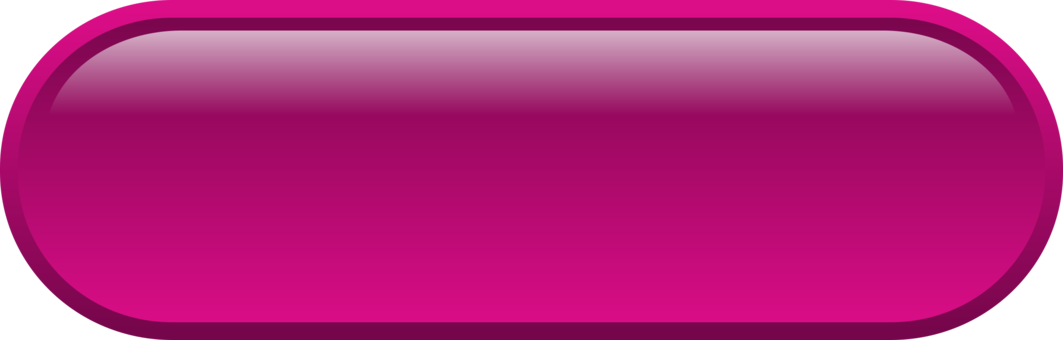
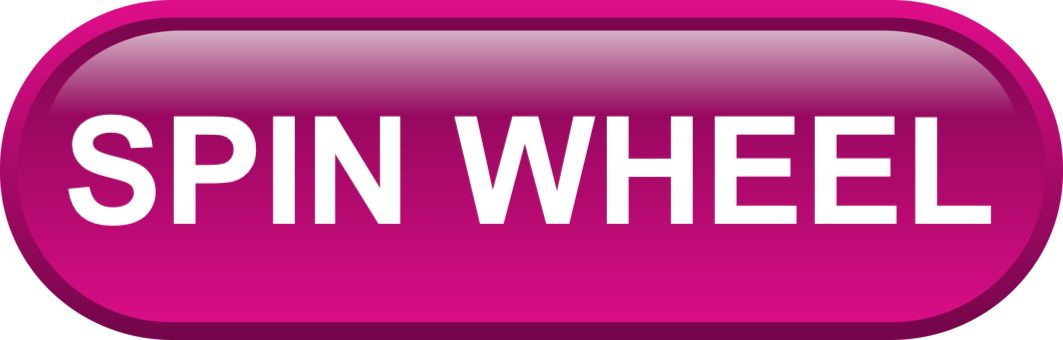
added text to the button spinwheel

Changed region(s): [[0.0621, 0.3235, 0.9313, 0.6765]]

diff --git a/scriptwheel.js b/scriptwheel.js
@@ -113,7 +113,7 @@
     });
 
     startButton.addEventListener("pointerup", (event) => {
-        console.log(event.type);
+        //console.log(event.type);
             // We need to disable the button while the wheel is spinning
         startButton.style.pointerEvents = "none";
             // Calculate a new rotation which depends on how long one presses the button plus some randomness
@@ -178,7 +178,7 @@
                 noLettersFound(vowelInput);                              
             }
             let vowelDropDown = document.querySelector('#vowelValue').childElementCount;
-            console.log(vowelDropDown);
+            //console.log(vowelDropDown);
             if (vowelDropDown < 1) {
                 vowelDiv.style.visibility = "hidden";
             }
@@ -241,8 +241,8 @@
         randomNumber = Math.floor(Math.random()*originalWord.length);
         wordWOF = new Word(originalWord[randomNumber].movie, originalWord[randomNumber].category);
         originalWord.splice(randomNumber, 1);
-        console.log(wordWOF.letters);
         wordWOF.arrangeLetters();
+        wordWOF.setCategory();
         anotherRoundDiv.style.display = "none";
         startButton.style.display = "block";
         userInput.style.display = "none";

diff --git a/script.js b/script.js
@@ -54,7 +54,7 @@ class Word {
         //const noBlocksPerRow = 13;
         
         for (let i=1; i<=noRows; i++) {
-            console.log(displayObject["row"+i]);
+            
             let joinedWords = displayObject["row"+i].join(" ");
             const row = document.querySelector("#row"+i); 
             for (let j=0; j<joinedWords.length; j++) {
@@ -65,6 +65,11 @@ class Word {
                 }
             }
         }
+    }
+
+    setCategory() {
+        const categoryDiv = document.querySelector(".category");
+        categoryDiv.innerText = this.category;
     }
 
 
@@ -156,8 +161,8 @@ const player1 = new Player("Azman");
 let wordWOF = new Word(originalWord[randomNumber].movie, originalWord[randomNumber].category);
 originalWord.splice(randomNumber, 1);
 
-console.log(wordWOF.letters);
 wordWOF.getUniqueLetters();
 //wordWOF.getStartWord();
 wordWOF.arrangeLetters();
+wordWOF.setCategory();
 

diff --git a/index.html b/index.html
@@ -37,7 +37,7 @@
 
         <div id="results-wheel-letter">
             <div class="letter-results"></div>
-            <div class="category">Romance</div>
+            <div class="category">Category</div>
             <div class="results"></div>
         </div>
 
